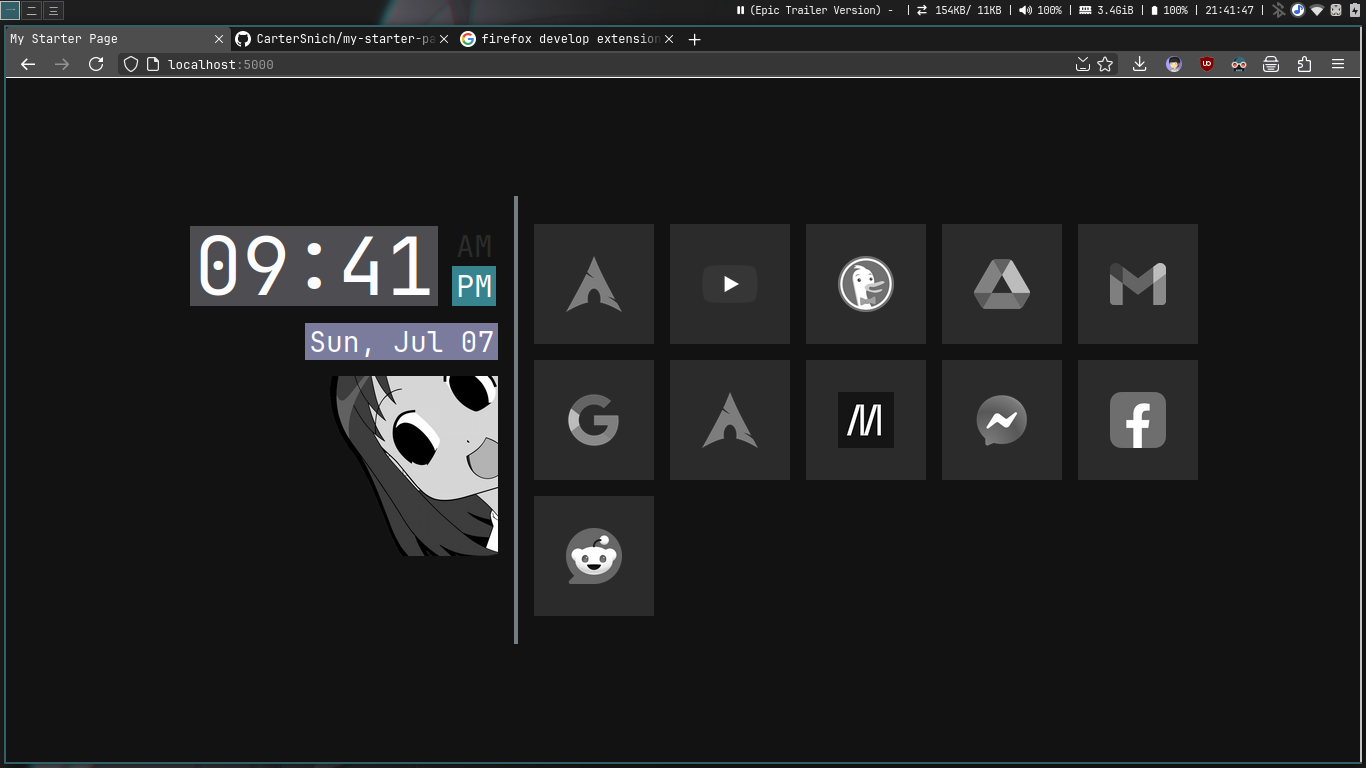
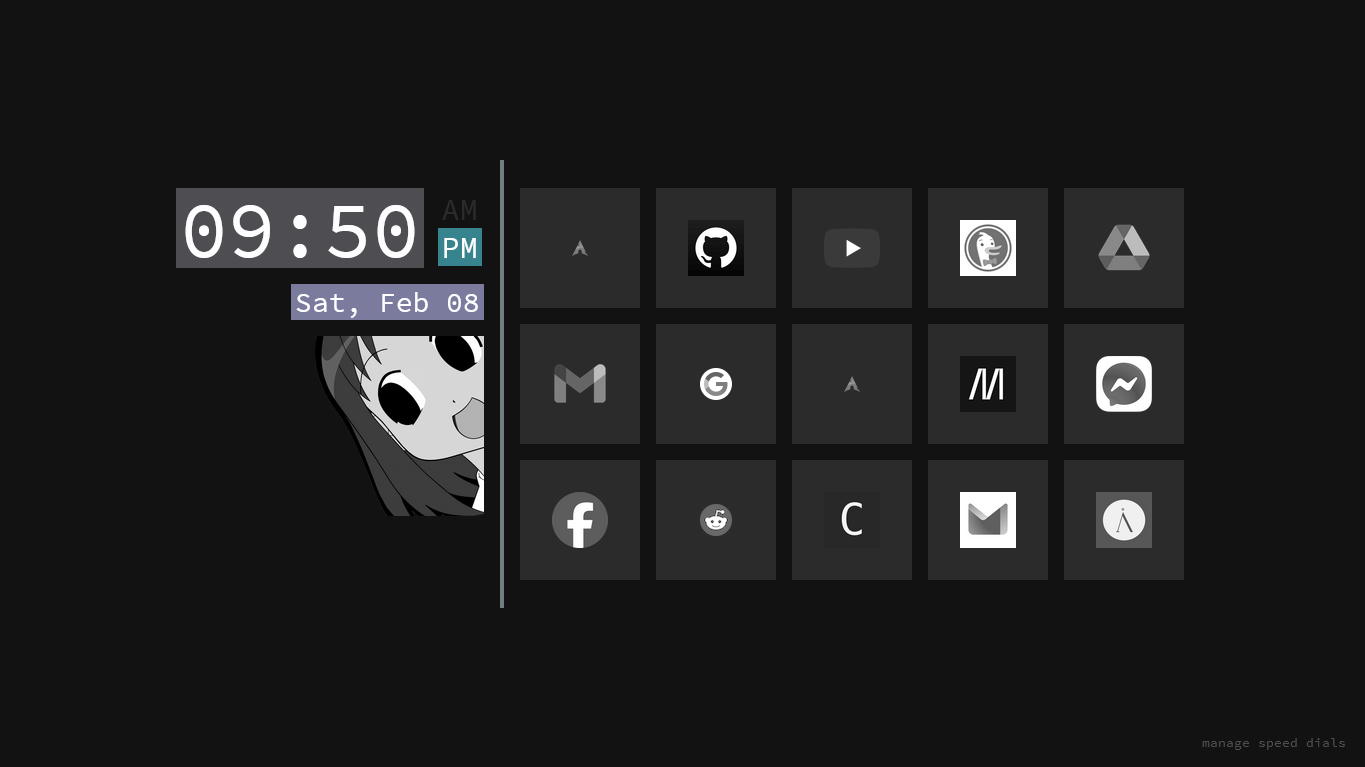
updated README images.

diff --git a/README.md b/README.md
@@ -1,2 +1,4 @@
 # My Starter Page
-![1](1.png)
+
+![browser starter page](1.png)
+![speed dial manager](2.png)
